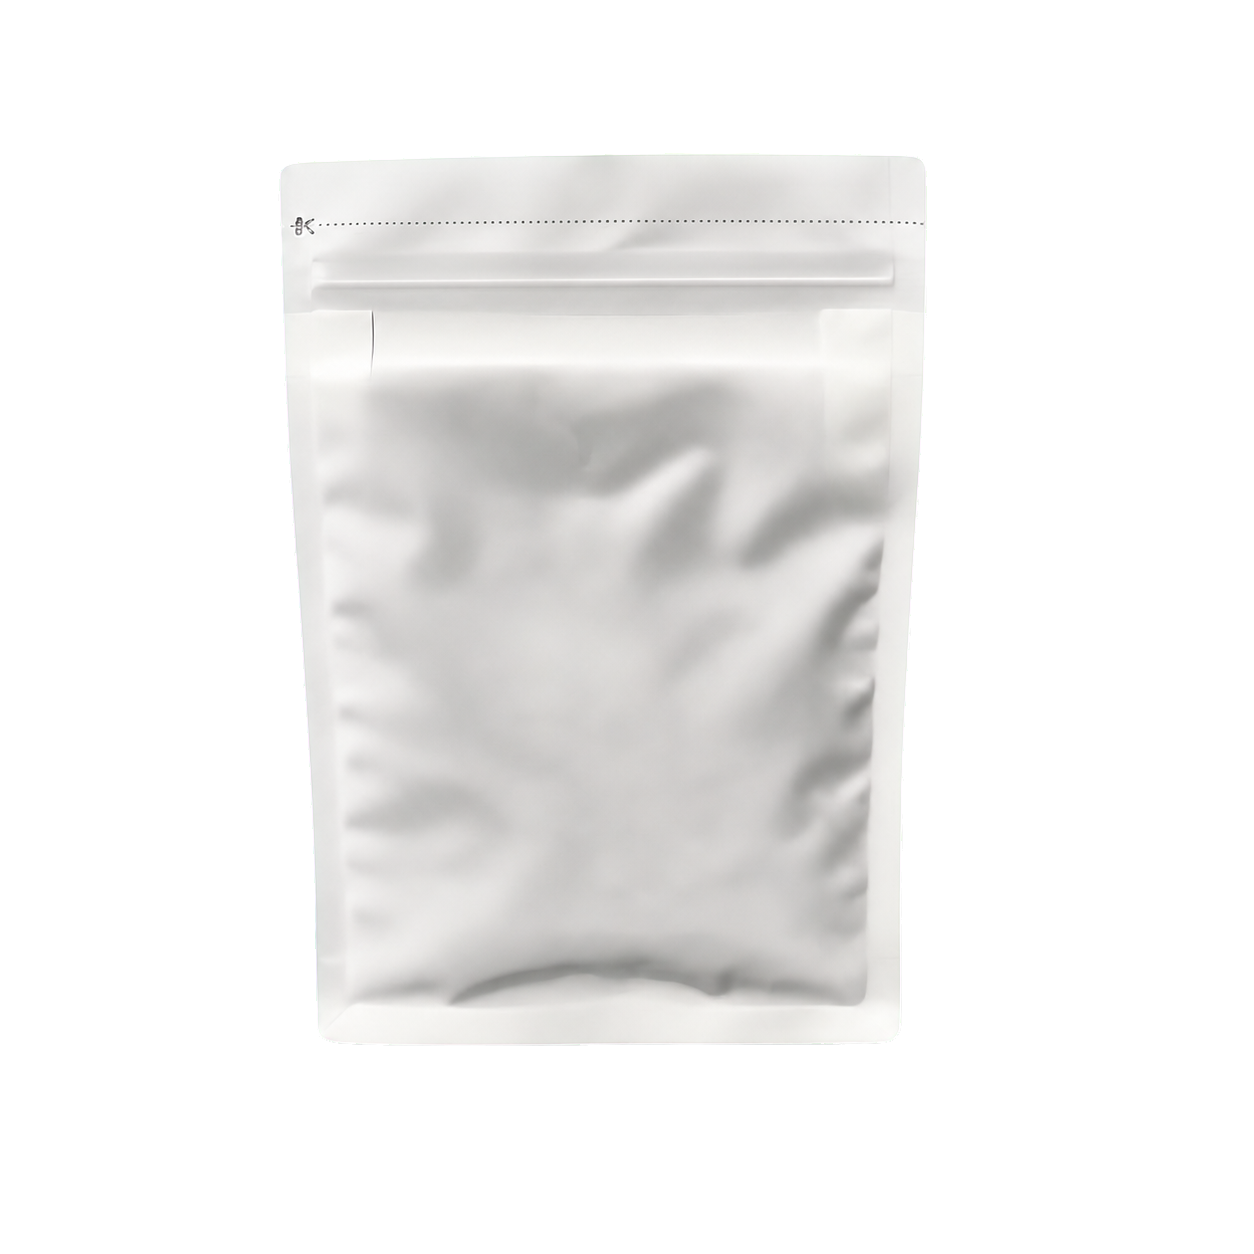
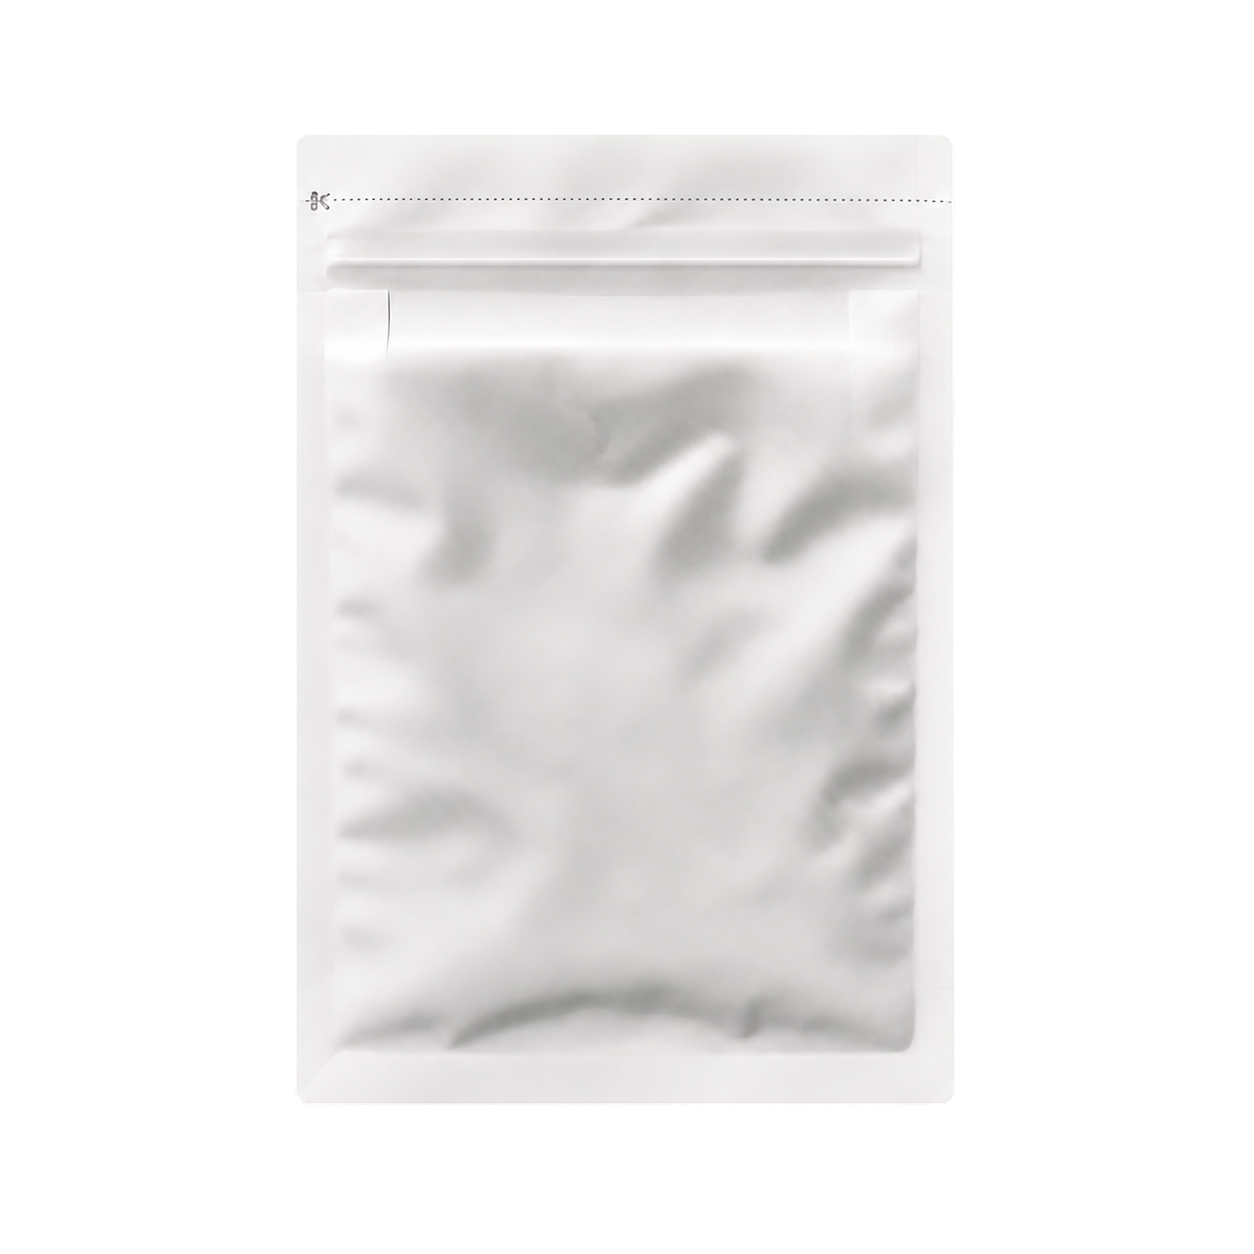
feat: refine product pouch thumbnails

diff --git a/app/data/site-changelog.ts b/app/data/site-changelog.ts
@@ -11,6 +11,7 @@ export type ChangelogEntry = Readonly<{
 
 // Ajouter chaque nouvelle évolution en tête de liste. Les anciennes entrées ne doivent pas être réécrites.
 export const siteChangelog = [
+  { id: "2026-07-28-rectangular-product-pack", date: "2026-07-28", kind: "Design", title: "Paquet rectangulaire sur les miniatures", description: "Le sachet blanc des miniatures café possède désormais des côtés verticaux : sa base reprend exactement la largeur de sa partie haute. Le paquet et l’étiquette ont été recentrés sur cette nouvelle silhouette, tout en conservant le zip, la matière et les plis ; son ombre est rapprochée de la base et légèrement décalée à droite pour mieux l’ancrer au sol." },
   { id: "2026-07-28-product-card-hover-image", date: "2026-07-28", kind: "Fonctionnalité", title: "Image de survol personnalisable sur les cafés", description: "Chaque fiche produit du back-office dispose désormais d’une section Image de survol pour importer, remplacer ou supprimer une photo carrée dédiée. Sur l’accueil et la Boutique, cette photo remplace progressivement la miniature principale au survol ou au focus clavier ; sans image renseignée, la carte conserve son affichage actuel." },
   { id: "2026-07-28-product-pack-photo-shadow", date: "2026-07-28", kind: "Design", title: "Ombre du paquet fidèle à la photo", description: "L’ombre des paquets sur les miniatures associe désormais une fine zone de contact sombre sous la base à une diffusion plus large, douce et légèrement décalée, afin de retrouver l’appui au sol et la profondeur de la photographie de référence." },
   { id: "2026-07-28-product-label-wrinkles", date: "2026-07-28", kind: "Design", title: "Étiquettes épousant les plis du paquet", description: "Les étiquettes des miniatures reprennent plus nettement les creux, les ombres et les reflets de la face avant du sachet. Leurs bords sont très légèrement irréguliers et leur ombre devient une micro-ombre de contact, afin qu’elles paraissent collées et qu’elles épousent la forme du paquet." },

diff --git a/app/app.css b/app/app.css
@@ -1086,8 +1086,8 @@ button:disabled {
 .admin-thumbnail-preview::before {
   position: absolute;
   z-index: 0;
-  top: 77%;
-  left: 51.2%;
+  top: 78%;
+  left: 54%;
   width: 52%;
   height: 11%;
   border-radius: 50%;
@@ -1102,8 +1102,8 @@ button:disabled {
 .admin-thumbnail-preview::after {
   position: absolute;
   z-index: 0;
-  top: 75.45%;
-  left: 50%;
+  top: 76.9%;
+  left: 52.8%;
   width: 32%;
   height: 2.8%;
   border-radius: 50%;
@@ -1118,7 +1118,7 @@ button:disabled {
   position: absolute;
   z-index: 1;
   top: 13%;
-  left: 51.4%;
+  left: 50.1%;
   width: 73%;
   height: 76%;
   object-fit: contain;
@@ -1179,7 +1179,7 @@ button:disabled {
   position: absolute;
   z-index: 3;
   top: -235.8%;
-  left: -75.36%;
+  left: -80%;
   width: 260.72%;
   height: 463.64%;
   background: url("/media/product-cards/zen-coffee-bag-resealable.png") center / 100% 100% no-repeat;
@@ -3697,7 +3697,7 @@ button:disabled {
   position: absolute;
   z-index: 1;
   top: 13%;
-  left: 51.4%;
+  left: 50.1%;
   width: 73%;
   height: 76%;
   object-fit: contain;
